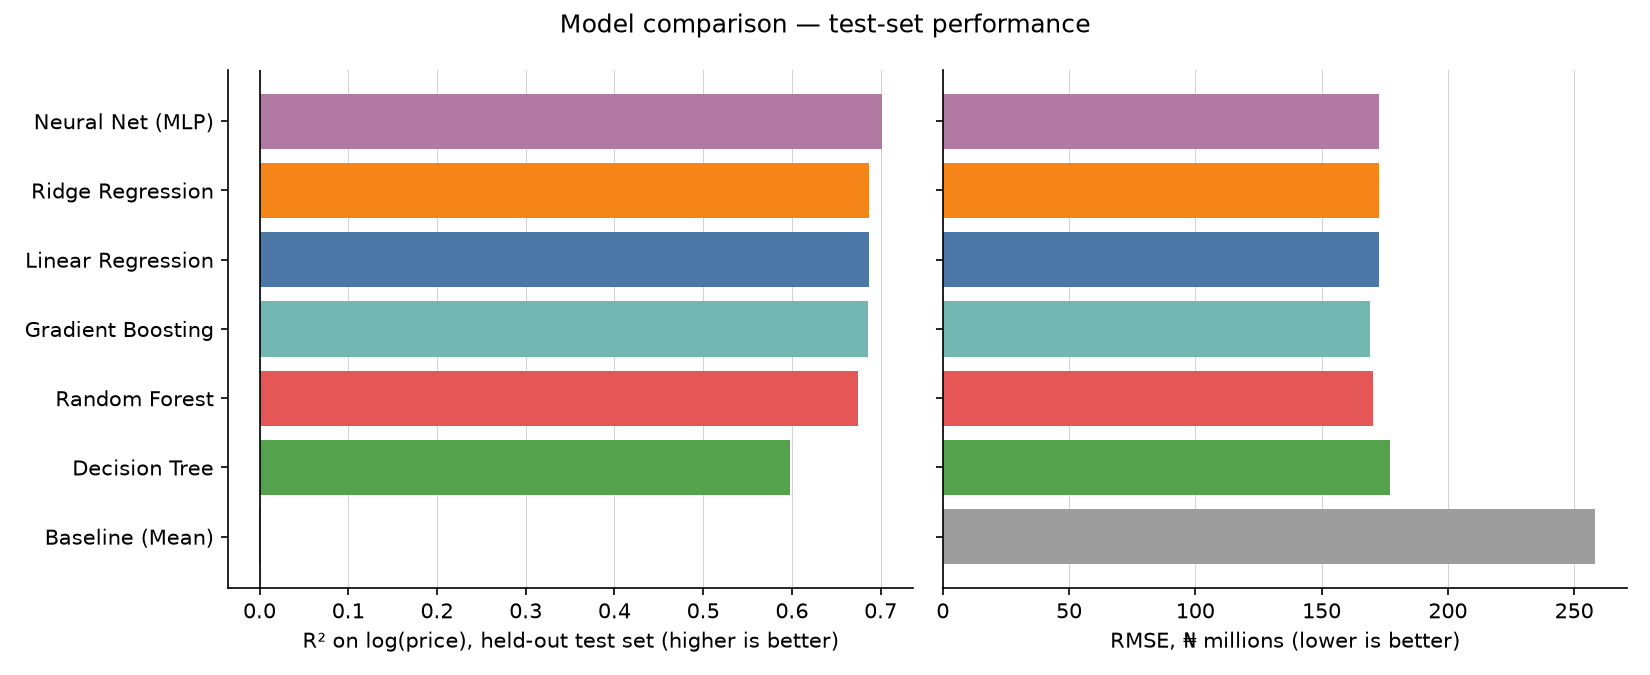
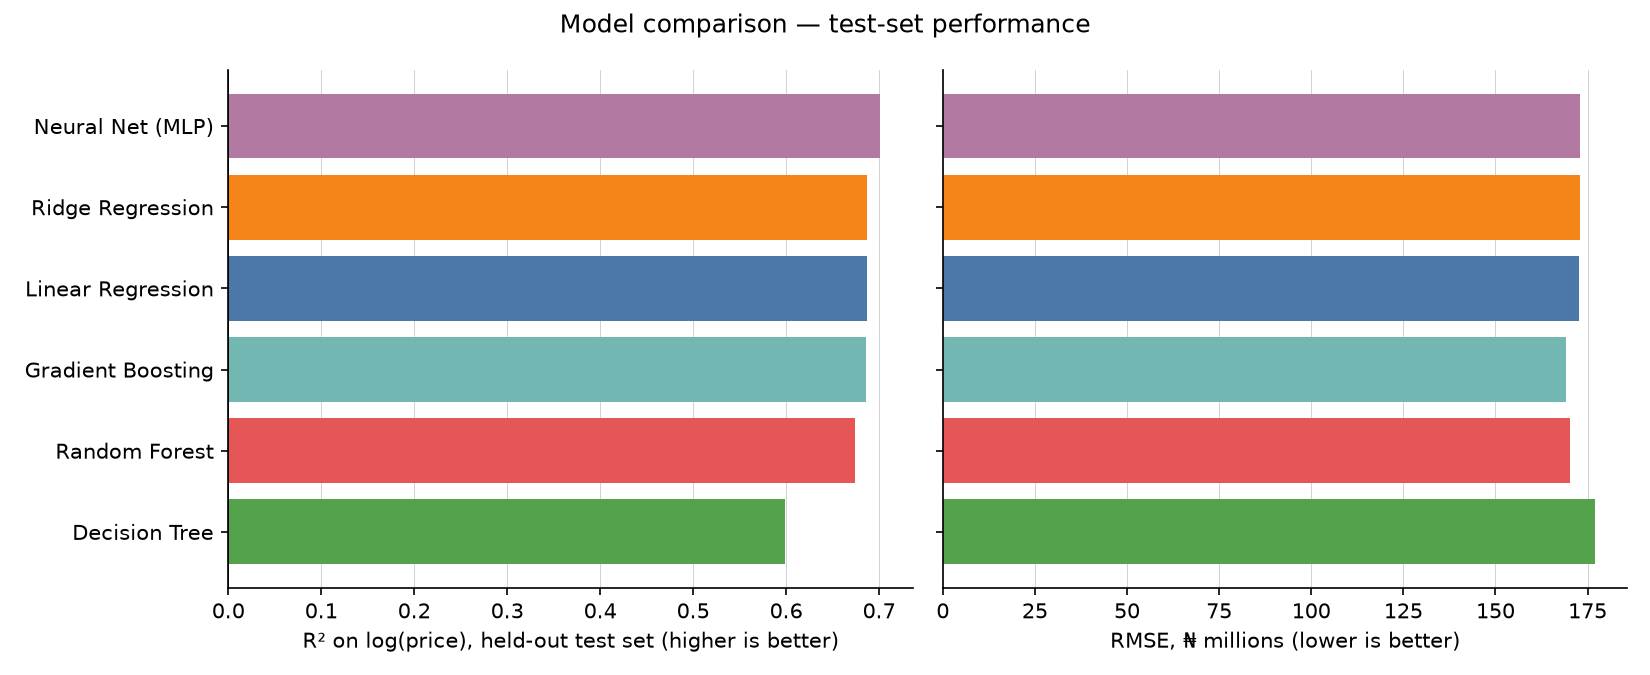
Trim reported metrics to R² (log), RMSE, MAE and CV R²
Drop naira-scale R² and MdAPE (and the now-unused mdape() helper and test) from
training, the app and the docs. The app no longer shows a typical-error range next
to predictions. README and CLAUDE.md describe Linear Regression as the baseline.

diff --git a/src/train.py b/src/train.py
@@ -16,7 +16,7 @@ from sklearn.pipeline import Pipeline
 
 from src.config import RANDOM_STATE
 from src.data import build_preprocessor, get_features_and_target, load_data
-from src.metrics import mae, mdape, r2, rmse
+from src.metrics import mae, r2, rmse
 from src.models import MODEL_REGISTRY, slugify
 
 ARTIFACTS_DIR = Path(__file__).resolve().parent.parent / "artifacts"
@@ -66,10 +66,8 @@ def train_all(df: pd.DataFrame | None = None, artifacts_dir: Path = ARTIFACTS_DI
             {
                 "Model": name,
                 "R2_log": r2_log(y_test, y_pred),
-                "R2": r2(y_test, y_pred),
                 "RMSE": rmse(y_test, y_pred),
                 "MAE": mae(y_test, y_pred),
-                "MdAPE": mdape(y_test, y_pred),
                 "CV_R2_log_mean": float(cv_scores.mean()),
                 "CV_R2_log_std": float(cv_scores.std()),
             }
@@ -78,7 +76,7 @@ def train_all(df: pd.DataFrame | None = None, artifacts_dir: Path = ARTIFACTS_DI
         joblib.dump(pipeline, artifacts_dir / f"{slugify(name)}.joblib")
         print(
             f"Trained {name}: R2_log={results[-1]['R2_log']:.3f}  "
-            f"MAE={results[-1]['MAE']:,.0f}  MdAPE={results[-1]['MdAPE']:.1%}"
+            f"RMSE={results[-1]['RMSE']:,.0f}  MAE={results[-1]['MAE']:,.0f}"
         )
 
     metrics_df = pd.DataFrame(results).sort_values("R2_log", ascending=False).reset_index(drop=True)

diff --git a/app.py b/app.py
@@ -81,10 +81,8 @@ with tab_compare:
         ordered.set_index("Model").style.format(
             {
                 "R2_log": "{:.3f}",
-                "R2": "{:.3f}",
                 "RMSE": "₦{:,.0f}",
                 "MAE": "₦{:,.0f}",
-                "MdAPE": "{:.1%}",
                 "CV_R2_log_mean": "{:.3f}",
                 "CV_R2_log_std": "{:.3f}",
             }
@@ -95,7 +93,7 @@ with tab_compare:
     best = ordered.iloc[0]
     st.info(
         f"**Best performing model:** {best['Model']} "
-        f"(R² on log price = {best['R2_log']:.3f}, typical error ±{best['MdAPE']:.0%})"
+        f"(R² on log price = {best['R2_log']:.3f}, MAE = ₦{best['MAE'] / 1e6:,.1f}M)"
     )
 
 with tab_predict:
@@ -129,11 +127,7 @@ with tab_predict:
         input_df = pd.DataFrame([inputs])
         pipeline = models[model_choice]
         prediction = pipeline.predict(input_df)[0]
-        mdape = metrics_df.set_index("Model").loc[model_choice, "MdAPE"]
-        st.success(
-            f"Estimated price ({model_choice}): **₦{prediction:,.0f}** "
-            f"— typical error ±{mdape:.0%} (median, test set)"
-        )
+        st.success(f"Estimated price ({model_choice}): **₦{prediction:,.0f}**")
 
         # The fitted estimator sits inside the TransformedTargetRegressor wrapper.
         estimator = pipeline.named_steps["model"].regressor_

diff --git a/tests/test_metrics.py b/tests/test_metrics.py
@@ -1,7 +1,7 @@
 import numpy as np
 import pytest
 
-from src.metrics import mae, mdape, r2, rmse
+from src.metrics import mae, r2, rmse
 
 
 def test_perfect_predictions():
@@ -9,7 +9,6 @@ def test_perfect_predictions():
     assert rmse(y_true, y_true) == 0
     assert mae(y_true, y_true) == 0
     assert r2(y_true, y_true) == 1
-    assert mdape(y_true, y_true) == 0
 
 
 def test_known_errors():
@@ -20,10 +19,3 @@ def test_known_errors():
     # predicting the mean everywhere gives R2 == 0 by definition
     assert r2(y_true, y_pred) == pytest.approx(0.0)
 
-
-def test_mdape_is_median_of_absolute_percentage_errors():
-    y_true = [100.0, 200.0, 400.0]
-    y_pred = [110.0, 100.0, 400.0]  # errors of 10%, 50%, 0%
-    assert mdape(y_true, y_pred) == pytest.approx(0.10)
-    # over- and under-prediction by the same fraction count equally
-    assert mdape([100.0], [80.0]) == mdape([100.0], [120.0]) == pytest.approx(0.20)

diff --git a/tests/test_train.py b/tests/test_train.py
@@ -8,13 +8,11 @@ def test_train_all_produces_metrics_and_artifacts_for_every_model(tiny_df, tmp_p
     assert len(metrics_df) == len(MODEL_REGISTRY)
     assert set(metrics_df["Model"]) == set(MODEL_REGISTRY)
     assert list(metrics_df.columns) == [
-        "Model", "R2_log", "R2", "RMSE", "MAE", "MdAPE", "CV_R2_log_mean", "CV_R2_log_std",
+        "Model", "R2_log", "RMSE", "MAE", "CV_R2_log_mean", "CV_R2_log_std",
     ]
     assert metrics_df["R2_log"].is_monotonic_decreasing
     assert (metrics_df["RMSE"] >= 0).all()
     assert (metrics_df["MAE"] >= 0).all()
-    assert (metrics_df["MdAPE"] >= 0).all()
-    assert (metrics_df["R2"] <= 1).all()
     assert (metrics_df["R2_log"] <= 1).all()
 
     assert (tmp_path / "metrics.csv").exists()

diff --git a/src/metrics.py b/src/metrics.py
@@ -18,9 +18,3 @@ def r2(y_true, y_pred) -> float:
     ss_tot = np.sum((y_true - np.mean(y_true)) ** 2)
     return float(1 - ss_res / ss_tot)
 
-
-def mdape(y_true, y_pred) -> float:
-    """Median absolute percentage error, as a fraction (0.34 means 34%)."""
-    y_true = np.asarray(y_true)
-    y_pred = np.asarray(y_pred)
-    return float(np.median(np.abs(y_true - y_pred) / np.abs(y_true)))

diff --git a/CLAUDE.md b/CLAUDE.md
@@ -63,22 +63,22 @@ pipeline has four layers that must stay in sync:
   in the CSV, update this file first — `train.py`, `app.py` and the tests import their
   column lists from here.
 
-- **`src/models/`** — one module per algorithm (`baseline.py`, `linear_regression.py`,
+- **`src/models/`** — one module per algorithm (`linear_regression.py`,
   `ridge_regression.py`, `decision_tree.py`, `random_forest.py`,
   `gradient_boosting.py`, `neural_net.py`), each exposing just `NAME: str` and
   `build() -> estimator` (the bare estimator — no target transform, no preprocessing).
   Hyperparameters live in the individual module; `src/config.py` holds the one constant
   shared across them (`RANDOM_STATE`). `src/models/__init__.py` collects them into
-  `MODEL_REGISTRY` (an insertion-ordered `{name: build_fn}` dict, 7 models, with
-  `Baseline (Mean)` — a `DummyRegressor` — first), owns `slugify()` (the single
-  name→filename mapping for `.joblib` artifacts) and `MODEL_COLORS` (one fixed colour per
-  model, grey for the baseline, used by both `app.py` and the report script). To add a
+  `MODEL_REGISTRY` (an insertion-ordered `{name: build_fn}` dict, 6 models, with
+  Linear Regression — the baseline the others are compared against — first), owns
+  `slugify()` (the single name→filename mapping for `.joblib` artifacts) and
+  `MODEL_COLORS` (one fixed colour per model, used by both `app.py` and the report
+  script). To add a
   new algorithm: create a module with the same `NAME`/`build()` contract, add it to
   `_MODEL_MODULES`, and give it a `MODEL_COLORS` entry (a test checks every model has one).
 
-- **`src/metrics.py`** — plain `rmse`/`mae`/`r2`/`mdape` functions (MdAPE = median
-  absolute percentage error, returned as a fraction), kept dependency-free (numpy only)
-  so they're trivial to unit test in isolation from sklearn pipelines.
+- **`src/metrics.py`** — plain `rmse`/`mae`/`r2` functions, kept dependency-free
+  (numpy only) so they're trivial to unit test in isolation from sklearn pipelines.
 
 - **`src/train.py`** — the orchestrator. `build_pipeline(build_model)` is the one place
   that wraps a model: `Pipeline(preprocess, TransformedTargetRegressor(regressor=build_model(),
@@ -88,7 +88,7 @@ pipeline has four layers that must stay in sync:
   module, or the comparison stops being apples-to-apples. `train_all(df=None,
   artifacts_dir=ARTIFACTS_DIR)` does an 80/20 split, fits each pipeline on the train
   split and reports on the test split: `R2_log` (R² on log(price) — the headline
-  metric), `R2` (naira), `RMSE`, `MAE`, `MdAPE`, plus `CV_R2_log_mean`/`_std` from
+  metric), `RMSE` and `MAE` (both in naira), plus `CV_R2_log_mean`/`_std` from
   5-fold CV run on `X_train` only, scored with `make_scorer(r2_log)`. The table is
   sorted by `R2_log` and written to `artifacts/metrics.csv` / `.json`, alongside each
   fitted pipeline at `artifacts/<slug>.joblib`. The optional `df`/`artifacts_dir` args
@@ -99,8 +99,8 @@ pipeline has four layers that must stay in sync:
 - **`app.py`** — Streamlit UI with two tabs: a comparison view (R2_log and RMSE bar
   charts + full metrics table from `artifacts/metrics.csv`) and a predictor (state →
   towns filtered to that state → property type, plus integer inputs bounded by the
-  data's min/max; builds a one-row `DataFrame` and calls `pipeline.predict`, shown
-  with the model's test-set MdAPE as the typical error). Tree models also get an
+  data's min/max; builds a one-row `DataFrame` and calls `pipeline.predict`). Tree
+  models also get an
   overall feature-importance chart, read from
   `pipeline.named_steps["model"].regressor_` because the estimator sits inside the
   `TransformedTargetRegressor`. Use `width="stretch"`, not the deprecated
@@ -118,14 +118,14 @@ pipeline has four layers that must stay in sync:
 schema — enough that `min_frequency=10` doesn't fold every category into "infrequent")
 so the suite never trains on the full dataset or writes into the real `artifacts/`
 dir — `test_train.py` passes `tiny_df` + pytest's `tmp_path` into `train_all()` for
-that reason. `test_models.py` checks the registry shape/contract (7 models, baseline
-first, a colour per model) rather than any model's accuracy. `test_data.py` covers
+that reason. `test_models.py` checks the registry shape/contract (6 models, Linear
+Regression first, a colour per model) rather than any model's accuracy. `test_data.py` covers
 `clean_data()` (duplicates and both price bounds) and loads the real CSV once.
 
 ### Data notes
 
-- Current results (test set): MLP best at R2_log ≈ 0.70, with Ridge/Linear/Gradient
-  Boosting within ~0.02; MdAPE ≈ 35%; the baseline sits at R2_log ≈ 0. If a change moves
+- Current results (test set): MLP best at R2_log ≈ 0.70, with the Linear Regression
+  baseline, Ridge and Gradient Boosting within ~0.02; MAE ≈ ₦72M. If a change moves
   these a lot, suspect a pipeline bug (e.g. leakage or a dropped transform) before
   celebrating or tuning.
 - `title` values are the site's own categories (`Detached Duplex`, `Terraced Duplexes`,

diff --git a/README.md b/README.md
@@ -1,9 +1,8 @@
 # Nigerian House Price Prediction
 
 Predicts the asking price of Nigerian houses from their listing details, comparing
-six regression algorithms (plus a mean-predicting baseline), from linear regression
-to a neural network. A Streamlit dashboard shows the comparison and runs a live
-predictor.
+six regression algorithms, from linear regression (the baseline) to a neural
+network. A Streamlit dashboard shows the comparison and runs a live predictor.
 
 ## Dataset
 
@@ -88,25 +87,22 @@ the training split only.
 
 ![Model comparison chart](assets/model_comparison.png)
 
-| Model | R² (log) | R² (₦) | RMSE (₦M) | MAE (₦M) | MdAPE | CV R² (log), mean ± std |
-|---|---:|---:|---:|---:|---:|---:|
-| **Neural Net (MLP)** | 0.701 | 0.506 | 172.9 | 71.6 | 34.5% | 0.708 ± 0.011 |
-| Ridge Regression | 0.687 | 0.507 | 172.8 | 73.2 | 36.5% | 0.694 ± 0.011 |
-| Linear Regression | 0.687 | 0.508 | 172.6 | 73.3 | 36.6% | 0.693 ± 0.011 |
-| Gradient Boosting | 0.686 | 0.528 | 169.0 | 71.6 | 35.7% | 0.686 ± 0.010 |
-| Random Forest | 0.674 | 0.521 | 170.3 | 72.1 | 35.9% | 0.681 ± 0.009 |
-| Decision Tree | 0.598 | 0.483 | 177.0 | 75.4 | 38.7% | 0.609 ± 0.014 |
-| Baseline (Mean) | 0.000 | -0.101 | 258.2 | 119.0 | 63.7% | -0.001 ± 0.000 |
+| Model | R² (log price) | RMSE (₦M) | MAE (₦M) | CV R² (log price), mean ± std |
+|---|---:|---:|---:|---:|
+| **Neural Net (MLP)** | 0.701 | 172.9 | 71.6 | 0.708 ± 0.011 |
+| Ridge Regression | 0.687 | 172.8 | 73.2 | 0.694 ± 0.011 |
+| Linear Regression *(baseline)* | 0.687 | 172.6 | 73.3 | 0.693 ± 0.011 |
+| Gradient Boosting | 0.686 | 169.0 | 71.6 | 0.686 ± 0.010 |
+| Random Forest | 0.674 | 170.3 | 72.1 | 0.681 ± 0.009 |
+| Decision Tree | 0.598 | 177.0 | 75.4 | 0.609 ± 0.014 |
 
-MdAPE is the median absolute percentage error: half of the test-set predictions are
-within that percentage of the listed price. The baseline predicts the mean
-log-price, so its naira R² is slightly negative.
+R² is measured on log price, the scale the models are trained on. RMSE and MAE are
+in naira, after converting predictions back from the log scale.
 
-**Best model: Neural Net (MLP).** It has R² = 0.701 on log price (0.708 in
-cross-validation) and a typical error of ±34.5%. The margin is small, though. Ridge,
-Linear Regression and Gradient Boosting are all within 0.02, and Gradient Boosting
-has the lowest RMSE and the highest naira-scale R². Every model cuts the baseline's
-typical error from 63.7% to 34–39%. Much of the remaining error likely comes from
+**Best model: Neural Net (MLP)**, with R² = 0.701 on log price (0.708 in
+cross-validation). It only narrowly beats the Linear Regression baseline (0.687), and
+Gradient Boosting has the lowest RMSE. The more flexible models therefore add little
+over a linear fit on these features. Much of the remaining error likely comes from
 what the listings don't record: floor area, age, condition and exact location.
 
 ## Why we changed datasets
@@ -126,6 +122,6 @@ features you'd expect.
 - `src/data.py`: schema, cleaning, and the shared preprocessing pipeline
 - `src/models/`: one module per algorithm, plus the registry and chart colours
 - `src/train.py`: trains, scores, and saves every model
-- `src/metrics.py`: RMSE, MAE, R², MdAPE
+- `src/metrics.py`: RMSE, MAE, R²
 - `app.py`: Streamlit dashboard (model comparison + interactive predictor)
 - `scripts/generate_report_assets.py`: regenerates the charts in this README
